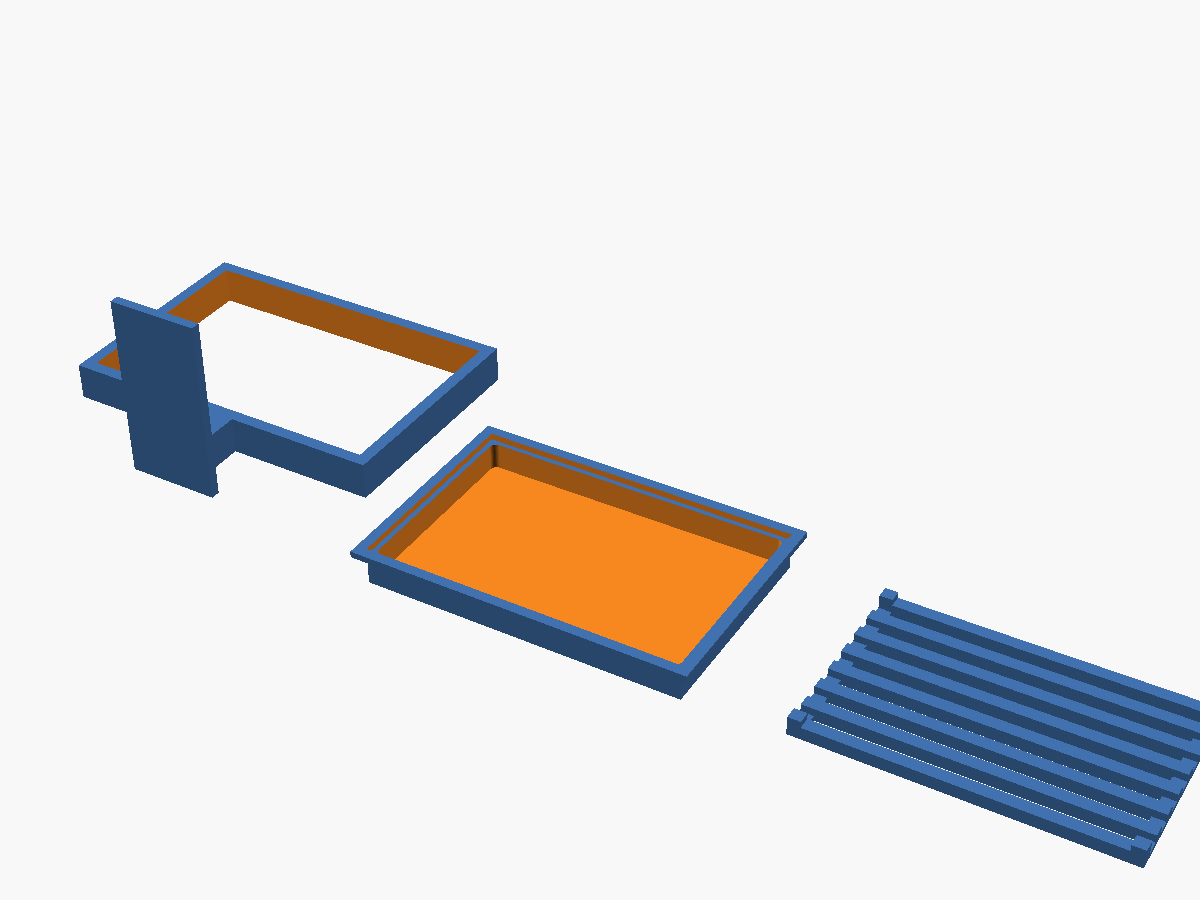
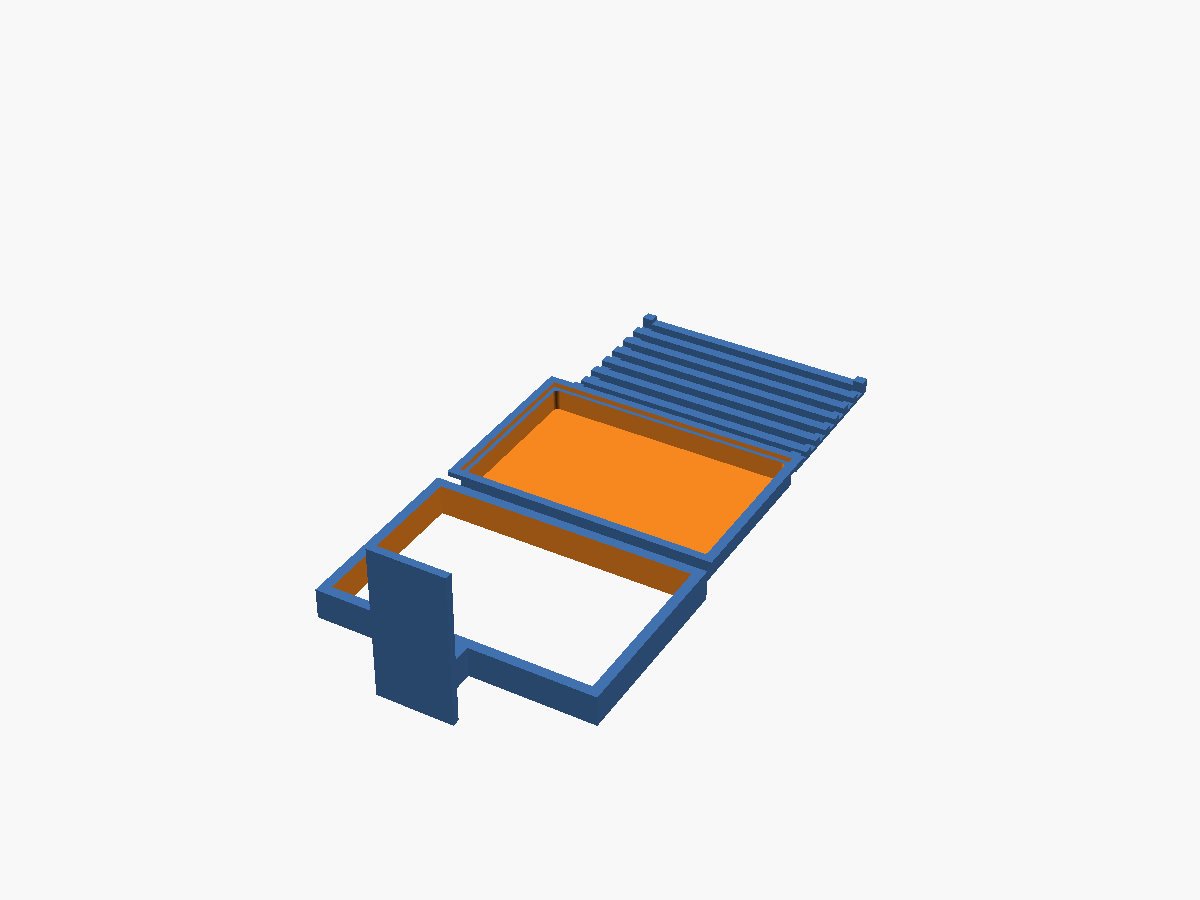
Print layout: arrange parts in Y (front-to-back) instead of X
The X-axis layout was ~364 mm wide, too wide for most beds. New
layout puts wandhalterung, schale, and gitter in a single column
along Y separated by 5 mm gaps. Total footprint ~244 x 110 mm,
fits an H2S/H2D-class build plate. Camera adjusted to frame the
new orientation. README dimension updated.

Changed region(s): [[0.0617, 0.28, 0.74, 0.8089], [0.6475, 0.6533, 1.0, 0.9644]]

diff --git a/README.md b/README.md
@@ -23,7 +23,7 @@ Wandmontierte 3D-druckbare Seifenschale aus drei Teilen, geklebt mit einem Tesa-
 
 ![Druck-Layout](docs/img/print.png)
 
-Die kombinierte `print.stl` legt alle drei Teile nebeneinander (~365 mm gesamt). Für Druckbetten kleiner als 365 mm pro Teil eine eigene Datei verwenden (`wandhalterung.stl`, `schale.stl`, `gitter.stl`).
+Die kombinierte `print.stl` legt alle drei Teile **hintereinander** in Y-Richtung (~244 mm gesamt × ~110 mm breit). Passt auf Druckbetten ab 250 × 110 mm (z.B. Bambu H2S/H2D). Für kleinere Betten die Einzeldateien verwenden (`wandhalterung.stl`, `schale.stl`, `gitter.stl`).
 
 ## Bauen
 
